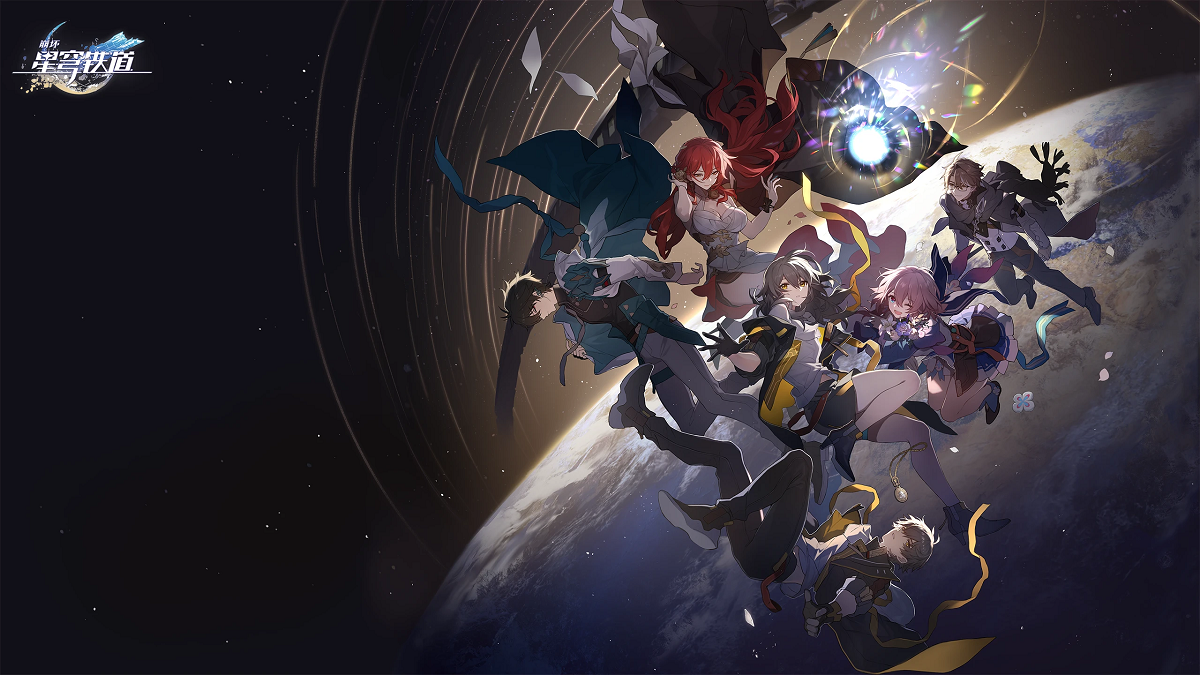
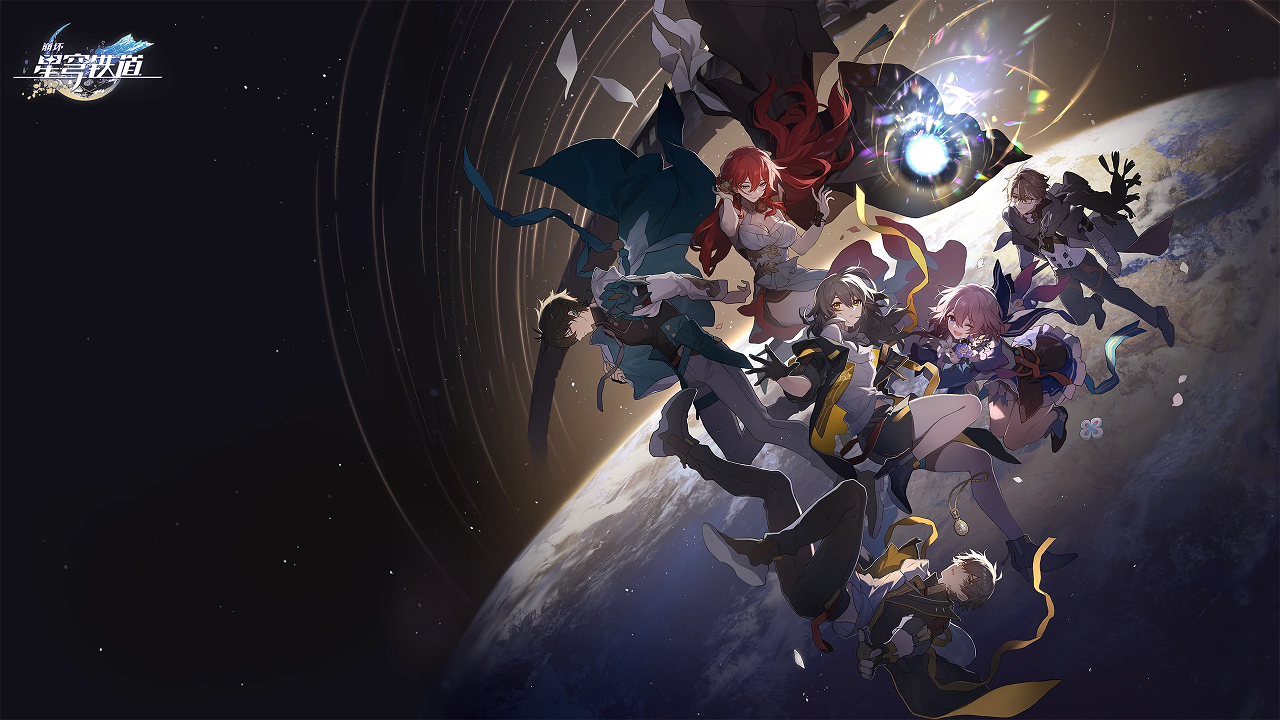
Update UI.

diff --git a/src/index.html b/src/index.html
@@ -1,21 +1,30 @@
 <!DOCTYPE html>
-<html lang="en-us">
+<html lang="en">
 
 <head>
     <meta charset="UTF-8" />
+    <meta name="viewport" content="width=device-width, initial-scale=1.0" />
     <link rel="stylesheet" type="text/css" href="./style.css" />
     <title>StarRail.Launcher.Plus - Alpha Test </title>
 </head>
 
 <body>
-    <button type="button" id="launch-game-btn">开始游戏</button>
-    <div id="sidebar-container">
-        <div class="sidebar-icon" id="mys-icon"><img src="./resources/images/icons/Mhybbs.png" alt="米游社" /></div>
-        <div class="sidebar-icon" id="wiki-icon"><img src="./resources/images/icons/Wiki.svg" alt="开拓者笔记" /></div>
-        <div class="sidebar-icon" id="github-icon"><img src="./resources/images/icons/Github.svg" alt="GitHub仓库" /></div>
-        <div class="sidebar-icon" id="settings-icon"><img src="./resources/images/icons/Settings.svg" alt="设置" /></div>
+    <div id="topbar">
+        <span id="newtitle">StarRail.Launcher.Plus</span>
+        <span id="version">0.3.0</span>
+        <div id="minimize-btn"><img src="./resources/images/icons/minimize.svg" width="20" height="20" alt="最小化" /></div>
+        <div id="close-btn"><img src="./resources/images/icons/close.svg" width="20" height="20" alt="关闭" /></div>
     </div>
-    <script type="text/javascript" src="./renderer.js"></script>
+    <div id="main-container">
+        <button type="button" id="launch-game-btn">开始游戏</button>
+        <div id="sidebar-container">
+            <div class="sidebar-icon" id="mys-icon"><img src="./resources/images/icons/Mhybbs.png" alt="米游社" /></div>
+            <div class="sidebar-icon" id="wiki-icon"><img src="./resources/images/icons/Wiki.svg" alt="开拓者笔记" /></div>
+            <div class="sidebar-icon" id="github-icon"><img src="./resources/images/icons/Github.svg" alt="GitHub仓库" /></div>
+            <div class="sidebar-icon" id="settings-icon"><img src="./resources/images/icons/Settings.svg" alt="设置" /></div>
+        </div>
+        <script type="text/javascript" src="./renderer.js"></script>
+    </div>
 </body>
 
 </html>

diff --git a/src/main.js b/src/main.js
@@ -7,14 +7,15 @@ const store = new Store()
 
 if (require('electron-squirrel-startup')) app.quit()
 
-function createWindow() {
+app.on("ready", () => {
     const mainWindow = new BrowserWindow({
+        //titleBarStyle: 'hidden',
         show: false,
         resizable: false,
-        width: 1200,
-        height: 675,
+        width: 1280,
+        height: 770,
         backgroundColor: '#161619',
-        icon: path.join(__dirname, '/resources/images/icons/icon-64.ico'),
+        icon: path.join(__dirname, '/resources/images/icons/app/icon-64.ico'),
         webPreferences: {
             preload: path.join(__dirname, 'preload.js'),
             nodeItergration: true,
@@ -25,13 +26,10 @@ function createWindow() {
     mainWindow.once('ready-to-show', () => {
         mainWindow.show()
     })
-}
 
-function createTray() {  //托盘
-    const tray = new Tray(path.join(__dirname, '/resources/images/icons/icon-64.ico'))
+    const tray = new Tray(path.join(__dirname, '/resources/images/icons/app/icon-64.ico'))
     tray.setToolTip('StarRail.Launcher.Plus')
     tray.setTitle('StarRail.Launcher.Plus')
-
     tray.on('right-click', () => {
         const template = [
             {
@@ -44,11 +42,23 @@ function createTray() {  //托盘
         const menuConfig = Menu.buildFromTemplate(template)
         tray.popUpContextMenu(menuConfig)
     })
-}
 
-app.on("ready", () => {
-    createWindow()
-    createTray()
+    ipcMain.on('openSettings', () => {
+        const settingsWindow = new BrowserWindow({
+            //titleBarStyle: 'hidden',
+            parent: mainWindow,
+            backgroundColor: '#FFFFFF',
+            show: false,
+            resizable: false,
+            width: 800,
+            height: 450,
+            icon: path.join(__dirname, '/resources/images/icons/app/icon-64.ico')
+        })
+        settingsWindow.loadFile(path.join(__dirname, 'settings.html'))
+        settingsWindow.once('ready-to-show', () => {
+            settingsWindow.show()
+        })
+    })
 })
 
 app.on('window-all-closed', () => {

diff --git a/src/style.css b/src/style.css
@@ -1,18 +1,19 @@
 body {
-    background-image: url("./resources/images/bg/default_v1.0.png");
     overflow: hidden;
+    font-family: "Microsoft YaHei", sans-serif;
+    user-select: none;
 }
 
 #launch-game-btn {
     display: block;
     position: absolute;
-    bottom: 60px;
+    bottom: 100px;
     right: 160px;
     width: 250px;
     height: 80px;
     border-radius: 6px;
+    border-style: none;
     font-size: 32px;
-    font-family: "Microsoft YaHei", sans-serif;
     background-color: #ffc450;
     color: #704a1d;
 }
@@ -30,7 +31,7 @@ body {
     right: 0px;
     width: 95px;
     height: 100%;
-    background-color: rgba(0, 0, 0, 0.5);
+    background-color: rgba(0, 0, 0, 0.3);
 }
 
 .sidebar-icon {
@@ -73,4 +74,50 @@ body {
 #settings-icon {
     position: relative;
     top: 180px;
+}
+
+#main-container {
+    background-image: url("./resources/images/bg/default_v1.0.png");
+    width: 1280px;
+    height: 720px;
+    position: absolute;
+    top: 50px;
+    left: 0px;
+}
+
+#topbar {
+    width: 1280px;
+    height: 50px;
+    line-height: 50px;
+    position: absolute;
+    top: 0px;
+    left: 0px;
+}
+
+#minimize-btn {
+    width: 20px;
+    height: 20px;
+    position: absolute;
+    top:0px;
+    right: 65px;
+}
+
+#close-btn {
+    width: 20px;
+    height: 20px;
+    position: absolute;
+    top:0px;
+    right: 18px;
+}
+
+#newtitle {
+    position: relative;
+    left: 15px;
+    color: white;
+}
+
+#version {
+    position: relative;
+    left: 24px;
+    color: #363636;
 }

diff --git a/src/renderer.js b/src/renderer.js
@@ -40,3 +40,4 @@ const sideBar = {
 sideBar.mys.addEventListener('click', function () { api.execCmd('start https://www.miyoushe.com/sr') })
 sideBar.wiki.addEventListener('click', function () { api.execCmd('start https://bbs.mihoyo.com/sr/wiki/') })
 sideBar.github.addEventListener('click', function () { api.execCmd('start https://github.com/Proton921/StarRail.Launcher.Plus') })
+sideBar.settings.addEventListener('click', function () { api.openSettings() })

diff --git a/src/preload.js b/src/preload.js
@@ -5,6 +5,7 @@ contextBridge.exposeInMainWorld('electronAPI', {
   checkFile: (fileName) => ipcRenderer.invoke('checkFile', fileName),
   execCmd: (cmd) => ipcRenderer.send('execCmd', cmd),
   execFile: (file) => ipcRenderer.send('execFile', file),
+  openSettings: () => ipcRenderer.send('openSettings'),
   store: {
     get(key) {
       return ipcRenderer.invoke('getData', key)

diff --git a/src/settings.html b/src/settings.html
@@ -1,0 +1,11 @@
+<!DOCTYPE html>
+<html lang="en">
+<head>
+    <meta charset="UTF-8" />
+    <meta name="viewport" content="width=device-width, initial-scale=1.0" />
+    <title>StarRail.Launcher.Plus - Settings</title>
+</head>
+<body>
+    
+</body>
+</html>
